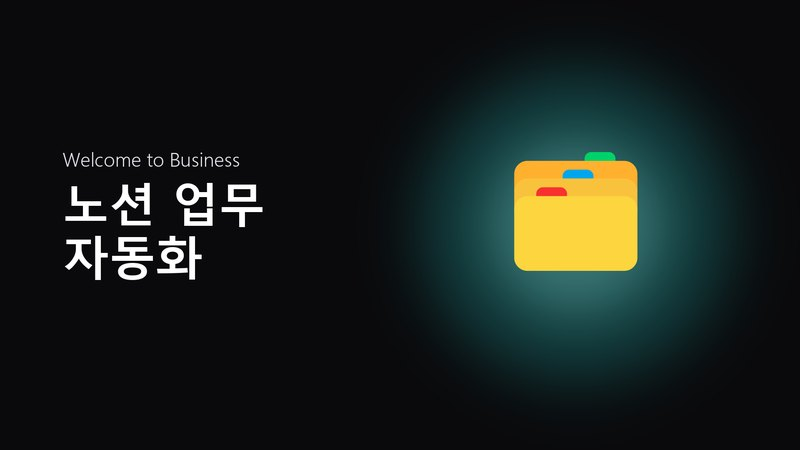
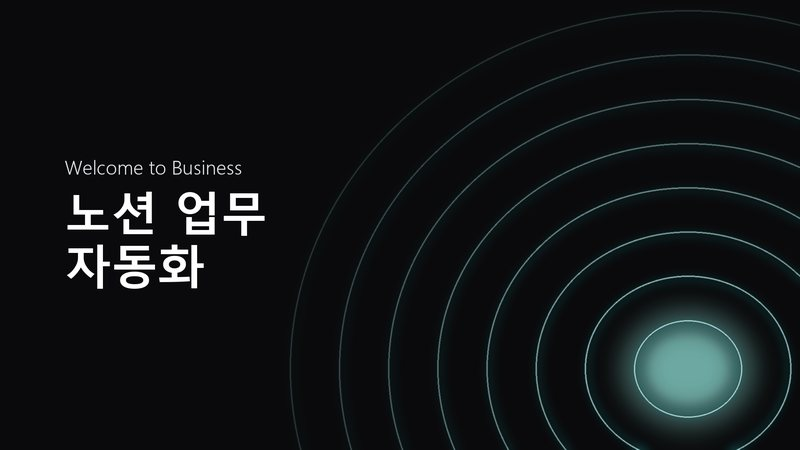
revert(demo-covers) + feat(audit): 이모지 커버 되돌리기 + 감사로그 한글 라벨
- 데모 코스 커버 27장을 이모지 버전 → 직전 추상 모티프 버전으로 복원(606f064)
- 감사로그 라벨: lecture.*·course.* 등 강의/코스 액션 전량 + target 라벨을 한글로 매핑
  (예: lecture.trash→'강의 삭제(휴지통)', course.delete→'코스 삭제', lecture.question.to_bank→'확인문항 문제은행 배치')

diff --git a/src/constants/auditActions.ts b/src/constants/auditActions.ts
@@ -58,6 +58,68 @@ export const AUDIT_ACTION_META: Record<string, { label: string; icon: string; cl
   'org.grade_head_dismiss': { label: '학년부장 해임', icon: 'ph-user-circle-minus', cls: 'warn' },
   'org.class_create': { label: '학급 생성', icon: 'ph-plus-circle', cls: 'ok' },
   'org.class_dissolve': { label: '학급 해산', icon: 'ph-minus-circle', cls: 'no' },
+  // 강사·운영자 — 코스
+  'course.create': { label: '코스 생성', icon: 'ph-plus-circle', cls: 'ok' },
+  'course.update': { label: '코스 수정', icon: 'ph-pencil-simple', cls: 'neutral' },
+  'course.delete': { label: '코스 삭제', icon: 'ph-trash', cls: 'no' },
+  'course.pricing.update': { label: '코스 수강료 설정', icon: 'ph-tag', cls: 'neutral' },
+  'course.thumbnail': { label: '코스 커버 등록', icon: 'ph-image', cls: 'neutral' },
+  'course.thumbnail_delete': { label: '코스 커버 삭제', icon: 'ph-image', cls: 'warn' },
+  // 강사 — 강의
+  'lecture.create': { label: '강의 업로드', icon: 'ph-upload-simple', cls: 'ok' },
+  'lecture.update': { label: '강의 수정', icon: 'ph-pencil-simple', cls: 'neutral' },
+  'lecture.reorder': { label: '강의 순서 변경', icon: 'ph-arrows-down-up', cls: 'neutral' },
+  'lecture.trash': { label: '강의 삭제(휴지통)', icon: 'ph-trash', cls: 'no' },
+  'lecture.restore': { label: '강의 복구', icon: 'ph-arrow-counter-clockwise', cls: 'ok' },
+  'lecture.purge': { label: '강의 완전 삭제', icon: 'ph-trash', cls: 'no' },
+  'lecture.thumbnail': { label: '강의 썸네일 등록', icon: 'ph-image', cls: 'neutral' },
+  'lecture.thumbnail_delete': { label: '강의 썸네일 삭제', icon: 'ph-image', cls: 'warn' },
+  'lecture.bot_check.passed': { label: '시청 봇 검증 통과', icon: 'ph-shield-check', cls: 'neutral' },
+  'lecture.review.upsert': { label: '수강 후기 작성', icon: 'ph-star', cls: 'neutral' },
+  // 강사 — 확인문항
+  'lecture.question.create': { label: '확인문항 추가', icon: 'ph-plus-circle', cls: 'ok' },
+  'lecture.question.update': { label: '확인문항 수정', icon: 'ph-pencil-simple', cls: 'neutral' },
+  'lecture.question.delete': { label: '확인문항 삭제', icon: 'ph-trash', cls: 'no' },
+  'lecture.question.generate': { label: '확인문항 AI 생성', icon: 'ph-sparkle', cls: 'ok' },
+  'lecture.question.to_bank': { label: '확인문항 문제은행 배치', icon: 'ph-archive', cls: 'neutral' },
+  'lecture.question.bulk_to_bank': { label: '확인문항 문제은행 일괄 배치', icon: 'ph-archive', cls: 'neutral' },
+  'lecture.question.image.create': { label: '확인문항 이미지 첨부', icon: 'ph-image', cls: 'neutral' },
+  'lecture.question.image.delete': { label: '확인문항 이미지 삭제', icon: 'ph-image', cls: 'warn' },
+  'lecture.question.report': { label: '문항 신고', icon: 'ph-flag', cls: 'warn' },
+  'lecture.question.report.resolve': { label: '문항 신고 처리', icon: 'ph-flag-checkered', cls: 'ok' },
+  // 강사 — 수료시험 문항
+  'course.exam_question.create': { label: '수료시험 문항 추가', icon: 'ph-plus-circle', cls: 'ok' },
+  'course.exam_question.update': { label: '수료시험 문항 수정', icon: 'ph-pencil-simple', cls: 'neutral' },
+  'course.exam_question.delete': { label: '수료시험 문항 삭제', icon: 'ph-trash', cls: 'no' },
+  'course.exam_question.import_lectures': { label: '수료시험 문항 강의에서 가져오기', icon: 'ph-download-simple', cls: 'neutral' },
+  'course.exam_question.import_bank': { label: '수료시험 문항 문제은행에서 가져오기', icon: 'ph-download-simple', cls: 'neutral' },
+  'course.exam_question.generate': { label: '수료시험 문항 AI 생성', icon: 'ph-sparkle', cls: 'ok' },
+  'course.exam_question.image.create': { label: '수료시험 문항 이미지 첨부', icon: 'ph-image', cls: 'neutral' },
+  'course.exam_question.image.delete': { label: '수료시험 문항 이미지 삭제', icon: 'ph-image', cls: 'warn' },
+  // 강사 — 자막/자료
+  'lecture.transcript.set': { label: '강의 자막 저장', icon: 'ph-text-t', cls: 'neutral' },
+  'lecture.transcript.upload': { label: '강의 자막 업로드', icon: 'ph-upload-simple', cls: 'neutral' },
+  'lecture.transcript.delete': { label: '강의 자막 삭제', icon: 'ph-text-t', cls: 'warn' },
+  'lecture.material.create': { label: '강의 자료 추가', icon: 'ph-paperclip', cls: 'ok' },
+  'lecture.material.update': { label: '강의 자료 수정', icon: 'ph-pencil-simple', cls: 'neutral' },
+  'lecture.material.delete': { label: '강의 자료 삭제', icon: 'ph-trash', cls: 'no' },
+  // 운영자 — 강사/학생 계정
+  'ops.instructor_create': { label: '강사 계정 생성', icon: 'ph-user-circle-plus', cls: 'warn' },
+  'ops.instructor_update': { label: '강사 정보 수정', icon: 'ph-user-circle-gear', cls: 'neutral' },
+  'ops.instructor_password_reset': { label: '강사 비밀번호 재설정', icon: 'ph-key', cls: 'warn' },
+  'ops.student_password_reset': { label: '학생 비밀번호 재설정', icon: 'ph-key', cls: 'warn' },
+  'ops.login_throttle_unlock': { label: '로그인 잠금 해제', icon: 'ph-lock-open', cls: 'warn' },
+  // 운영자 — AI 런타임/시스템 설정
+  'ops.ai_runtime.model_create': { label: 'AI 런타임 모델 등록', icon: 'ph-cpu', cls: 'ok' },
+  'ops.ai_runtime.model_update': { label: 'AI 런타임 모델 수정', icon: 'ph-cpu', cls: 'neutral' },
+  'ops.ai_runtime.model_delete': { label: 'AI 런타임 모델 삭제', icon: 'ph-cpu', cls: 'no' },
+  'ops.ai_runtime.config': { label: 'AI 런타임 설정 변경', icon: 'ph-sliders-horizontal', cls: 'neutral' },
+  'system.settings.ai_keys': { label: 'AI API 키 설정', icon: 'ph-key', cls: 'warn' },
+  'system.settings.ai_prompt': { label: 'AI 생성 프롬프트 변경', icon: 'ph-text-aa', cls: 'neutral' },
+  'system.settings.ai_verify_prompt': { label: 'AI 검증 프롬프트 변경', icon: 'ph-text-aa', cls: 'neutral' },
+  // 운영자 — 행동 데이터
+  'behavior.label_mark': { label: '행동 데이터 라벨 변경', icon: 'ph-tag', cls: 'neutral' },
+  'behavior.redteam_generate': { label: '레드팀 데이터 생성', icon: 'ph-sparkle', cls: 'neutral' },
 };
 
 /** 대상(target_type) 내부 코드 → 사람이 읽는 라벨 */
@@ -78,4 +140,11 @@ export const AUDIT_TARGET_LABEL: Record<string, string> = {
   behavior_summary: '행동 데이터',
   model_version: 'AI 모델',
   inquiry: '문의',
+  course: '코스',
+  lecture: '강의',
+  lecture_question: '확인문항',
+  course_exam_question: '수료시험 문항',
+  lecture_material: '강의 자료',
+  lecture_transcript: '강의 자막',
+  lecture_question_report: '문항 신고',
 };
